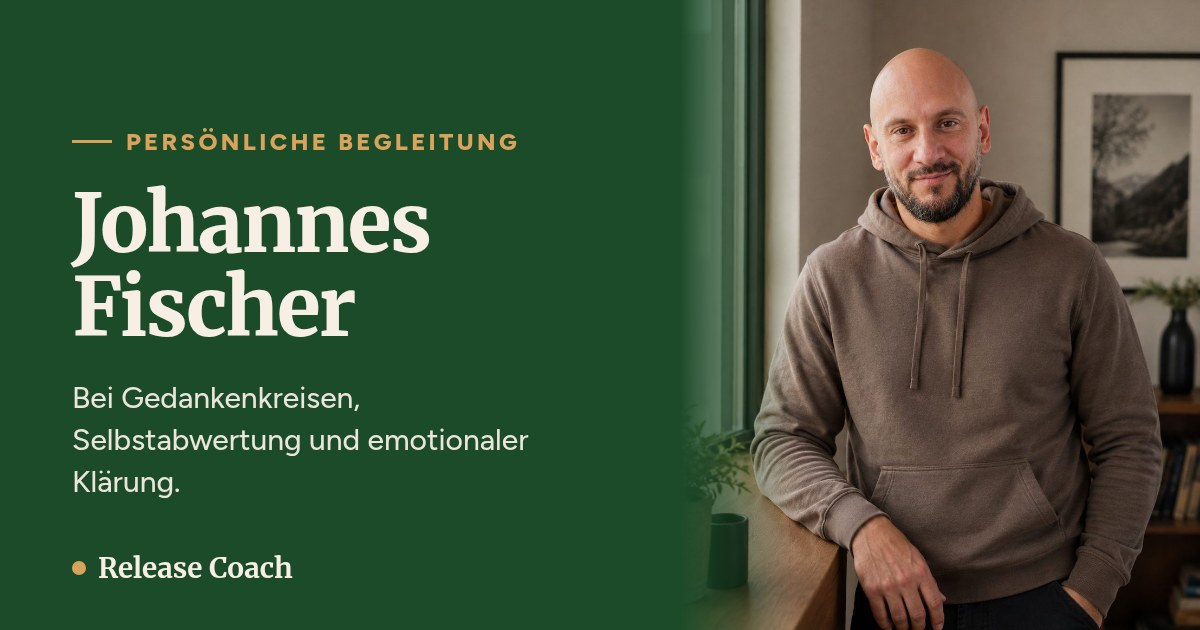
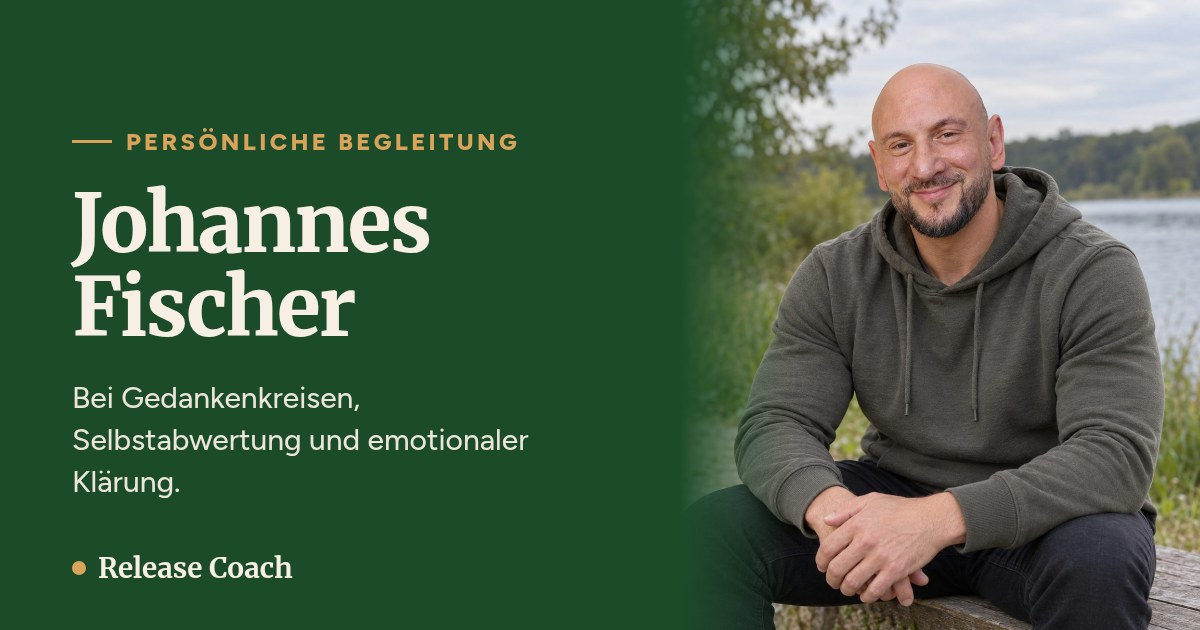
Add files via upload

diff --git a/datenschutz.html b/datenschutz.html
@@ -4,7 +4,7 @@
 <meta charset="utf-8">
 <meta name="viewport" content="width=device-width, initial-scale=1">
 <title>Datenschutzerklärung · Release Coach · Johannes Fischer</title>
-<meta name="description" content="Datenschutzerklärung (Entwurf) für die Website von Johannes Fischer, Release Coach.">
+<meta name="description" content="Datenschutzerklärung für die Website von Johannes Fischer, Release Coach.">
 <meta name="theme-color" content="#F7EFE3">
 <link rel="icon" href="favicon.ico" sizes="48x48">
 <link rel="icon" type="image/svg+xml" href="assets/favicon.svg">
@@ -67,9 +67,6 @@
 </section>
 <section class="legal">
   <div class="wrap legal-wrap">
-    <aside class="draft-note" role="note">
-      <strong>Entwurf, vor Livegang prüfen lassen.</strong> Dieser Text ist ein Arbeitsstand vom 20.11.2026 und noch keine geprüfte Rechtsberatung. Stellen in <span class="todo">[eckigen Klammern]</span> sind offen und müssen vor dem Livegang geklärt werden.
-    </aside>
 
     <h2>1. Verantwortlicher</h2>
     <p>Verantwortlich für die Verarbeitung personenbezogener Daten auf dieser Website ist:</p>
@@ -125,7 +122,8 @@
     <p>Die Website enthält einen Link zu meinem Instagram-Profil @release_coach. Instagram wird von der Meta Platforms Ireland Limited, Merrion Road, Dublin 4, Irland betrieben. Erst nach dem Klick werden dort Daten verarbeitet. Ob und wie Instagram dich erfasst, richtet sich nach den Einstellungen und Bestimmungen von Instagram. Dabei können Daten auch in die USA übermittelt werden (siehe Abschnitt 9).</p>
 
     <h3>5.5 Google-Bewertungen</h3>
-    <p>Auf der Startseite zitiere ich einige Bewertungen von Klientinnen und Klienten, die sie öffentlich bei Google abgegeben haben, jeweils nur mit Vornamen. <span class="todo">[Einwilligung der genannten Personen zur Veröffentlichung auf der Website prüfen und dokumentieren]</span> Der Link „Alle Bewertungen auf Google“ führt zu Google (Google Ireland Limited, Gordon House, Barrow Street, Dublin 4, Irland). Erst nach dem Klick werden dort Daten verarbeitet. Dabei können Daten auch in die USA übermittelt werden (siehe Abschnitt 9).</p>
+    <p>Auf der Startseite zitiere ich einige Stimmen von Klientinnen und Klienten. Ich veröffentliche sie nur mit dem Einverständnis der jeweiligen Person und nur mit dem Vornamen. Rechtsgrundlage ist die Einwilligung nach Art. 6 Abs. 1 lit. a DSGVO. Bewertungen, die Menschen öffentlich bei Google abgegeben haben, zitiere ich wörtlich und mit Quellenangabe. Du kannst dein Einverständnis jederzeit mit Wirkung für die Zukunft widerrufen. Schreib mir dazu einfach eine E-Mail an <a href="mailto:johannesfischer@release-coach.de">johannesfischer@release-coach.de</a>, dann entferne ich deine Stimme von der Website.</p>
+    <p>Der Link „Alle Bewertungen auf Google“ führt zu Google (Google Ireland Limited, Gordon House, Barrow Street, Dublin 4, Irland). Erst nach dem Klick werden dort Daten verarbeitet. Dabei können Daten auch in die USA übermittelt werden (siehe Abschnitt 9).</p>
 
     <h3>5.6 Google Meet für Gespräche und Sessions</h3>
     <p>Erstgespräche und Sessions finden auf Wunsch per Google Meet statt. Du erhältst dafür von mir einen Link und nimmst über deinen Browser oder die App teil. Dabei verarbeitet Google (Google Ireland Limited) Daten wie deine IP-Adresse, Geräte- und Verbindungsangaben sowie Bild und Ton, soweit du Kamera und Mikrofon einschaltest. Ich zeichne die Gespräche nicht auf. Ein Transkript über Google Workspace (Google Meet) erstelle ich nur, wenn du vorher ausdrücklich zustimmst. Ich lösche das Transkript nach Abschluss der Auswertung, spätestens zusammen mit meinen Notizen nach drei Monaten (siehe Abschnitt 8). Rechtsgrundlage für das Gespräch ist Art. 6 Abs. 1 lit. b DSGVO (Durchführung des Gesprächs oder der Zusammenarbeit), für ein Transkript deine Einwilligung nach Art. 6 Abs. 1 lit. a DSGVO und, soweit es Gesundheitsdaten enthält, Art. 9 Abs. 2 lit. a DSGVO. Google LLC nimmt am EU-US Data Privacy Framework teil (siehe Abschnitt 9). Wenn du Google Meet nicht nutzen möchtest, kannst du alternativ ein Telefongespräch oder, wenn du in der Nähe wohnst, ein Treffen in meinem Coaching-Raum in Xanten wählen.</p>
@@ -165,7 +163,7 @@
     <p>Außerdem hast du nach Art. 77 DSGVO das Recht, dich bei einer Datenschutzaufsichtsbehörde zu beschweren. Zuständig für mich ist die Landesbeauftragte für Datenschutz und Informationsfreiheit Nordrhein-Westfalen, Kavalleriestraße 2 bis 4, 40213 Düsseldorf, www.ldi.nrw.de.</p>
 
     <h2>11. Änderungen dieser Erklärung</h2>
-    <p>Wenn sich die Website oder die rechtlichen Vorgaben ändern, passe ich diese Erklärung an. Es gilt die jeweils hier veröffentlichte Fassung. Stand: Entwurf vom 20.11.2026.</p>
+    <p>Wenn sich die Website oder die rechtlichen Vorgaben ändern, passe ich diese Erklärung an. Es gilt die jeweils hier veröffentlichte Fassung. Stand: 20.11.2026.</p>
 
     <p class="legal-links"><a class="textlink" href="impressum.html">Zum Impressum</a> <a class="textlink" href="index.html">Zurück zur Startseite</a></p>
   </div>

diff --git a/style.css b/style.css
@@ -143,7 +143,7 @@ h3{font-size:1.2rem;line-height:1.3;font-weight:700;color:var(--brown)}
 .hero-cta .btn{width:100%}
 .hero-photo{position:relative;justify-self:start;width:100%;max-width:460px;isolation:isolate}
 .hero-photo picture{display:block;border-radius:28px;overflow:hidden;aspect-ratio:4/4.4;background:var(--cream-deep);box-shadow:0 26px 50px -28px rgba(51,32,15,.5)}
-.hero-photo img{width:100%;height:100%;object-fit:cover;object-position:50% 16%}
+.hero-photo img{width:100%;height:100%;object-fit:cover;object-position:50% 8%}
 .facts{display:grid;gap:0;margin-top:clamp(40px,6vw,72px);border-top:1px solid var(--line)}
 .facts li{position:relative;padding:15px 0 15px 28px;font-weight:650;color:var(--brown);border-bottom:1px solid var(--line);font-size:.98rem}
 .facts li::before{content:"";position:absolute;left:4px;top:50%;width:9px;height:9px;margin-top:-4px;border-radius:50%;background:var(--gold)}
@@ -361,7 +361,7 @@ html:not(.js) .dock{display:none}
 
 /* Rechtliche Seiten */
 .legal-hero{background:var(--cream);padding-block:clamp(36px,6vw,72px) clamp(24px,4vw,40px)}
-.legal-hero h1{font-size:clamp(2rem,7vw,3.2rem);line-height:1.1;font-weight:800;letter-spacing:-.02em;color:var(--green)}
+.legal-hero h1{font-size:clamp(1.45rem,6.2vw,3.2rem);hyphens:auto;overflow-wrap:break-word;line-height:1.1;font-weight:800;letter-spacing:-.02em;color:var(--green)}
 .legal{padding-block:clamp(32px,5vw,64px) var(--sec)}
 .legal-wrap{max-width:52rem}
 .legal h2{font-size:clamp(1.25rem,3.6vw,1.55rem);margin:2.2em 0 .6em}
@@ -443,3 +443,4 @@ html:not(.js) .more-close-wrap{display:none}
 .more-body .creds{margin-top:30px}
 .about-text .more+.boundary,.about-text>.boundary{margin-top:28px}
 @media (prefers-reduced-motion:reduce){.more-body{animation:none}.more-btn::after{transition:none}}
+.legal p,.legal li{overflow-wrap:anywhere}

diff --git a/index.html b/index.html
@@ -87,15 +87,15 @@
     </div>
     <figure class="hero-photo">
       <picture>
-        <source srcset="assets/img/hero.webp" type="image/webp">
-        <img src="assets/img/hero.jpg" width="960" height="1280" alt="Johannes Fischer, lächelnd, an ein Fensterbrett gelehnt" fetchpriority="high">
+        <source type="image/webp" srcset="assets/img/hero-see-640.webp 640w, assets/img/hero-see-1000.webp 1000w" sizes="(min-width:960px) 460px, 100vw">
+        <img src="assets/img/hero-see-1000.jpg" srcset="assets/img/hero-see-640.jpg 640w, assets/img/hero-see-1000.jpg 1000w" sizes="(min-width:960px) 460px, 100vw" width="1000" height="1250" alt="Johannes Fischer am See bei Xanten" fetchpriority="high">
       </picture>
     </figure>
   </div>
   <div class="wrap">
     <ul class="facts" aria-label="Auf einen Blick">
       <li>Kostenloses Erstgespräch</li>
-      <li>Google Meet, Telefon oder Xanten</li>
+      <li>Google Meet, Telefon oder vor Ort in Xanten</li>
       <li>Persönliche Begleitung, keine Psychotherapie</li>
     </ul>
   </div>
